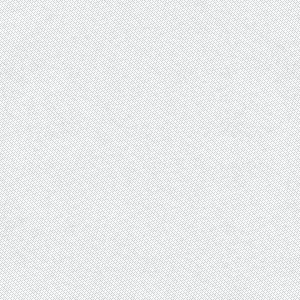
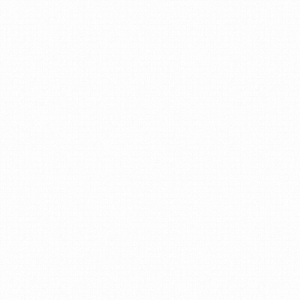
working on gradient, image for the interior content bg

diff --git a/app/assets/stylesheets/elements.less b/app/assets/stylesheets/elements.less
@@ -18,13 +18,8 @@
   background: -webkit-linear-gradient(@dir, @start 0%, @stop 100%);
   background: -o-linear-gradient(@dir, @start 0%, @stop 100%);
   background: -ms-linear-gradient(@dir, @start 0%, @stop 100%);
-  filter: progid:DXImageTransform.Microsoft.gradient( startColorstr='@start', endColorstr='@stop',GradientType=1 ); /* IE6-9 */
-  background: linear-gradient(@dir, @start, @stop);  
+  background: linear-gradient(@dir, @start 0%, @stop 100%);  
 }
-
-
-
-
 
 .gradient(@color: #F5F5F5, @start: #EEE, @stop: #FFF) {
   background: @color;
@@ -58,6 +53,9 @@
   -moz-box-shadow: @x-axis @y-axis @blur rgba(0, 0, 0, @alpha);
   box-shadow: @x-axis @y-axis @blur rgba(0, 0, 0, @alpha);
 }
+
+
+
 .rounded(@radius: 2px) {
   -webkit-border-radius: @radius;
   -moz-border-radius: @radius;
